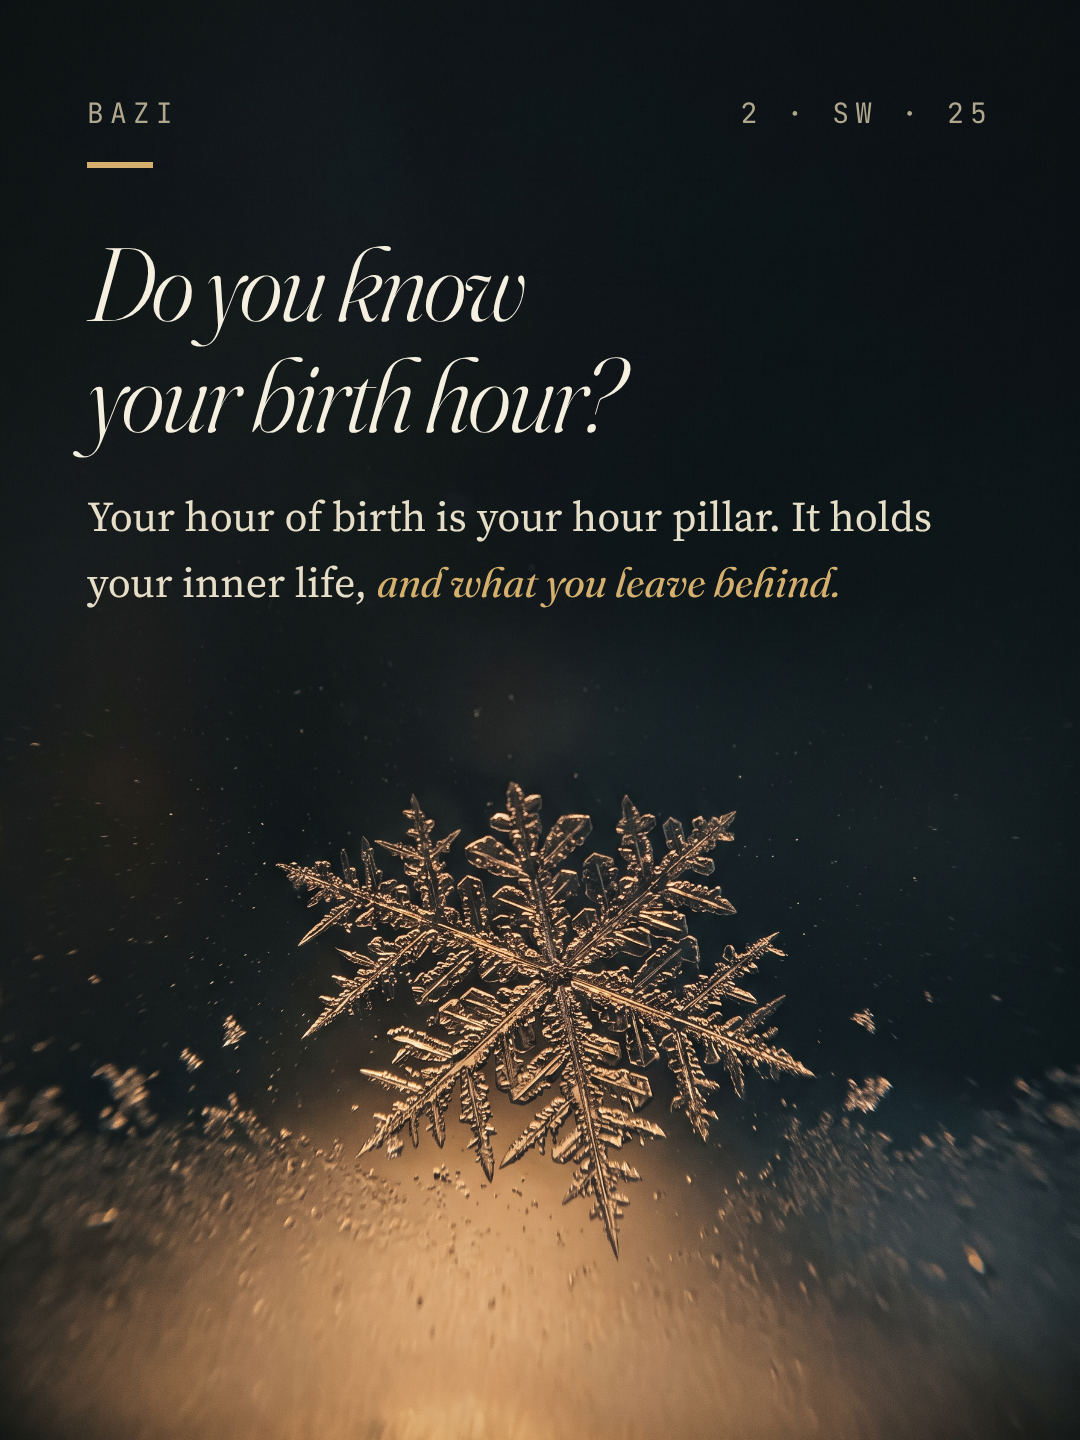
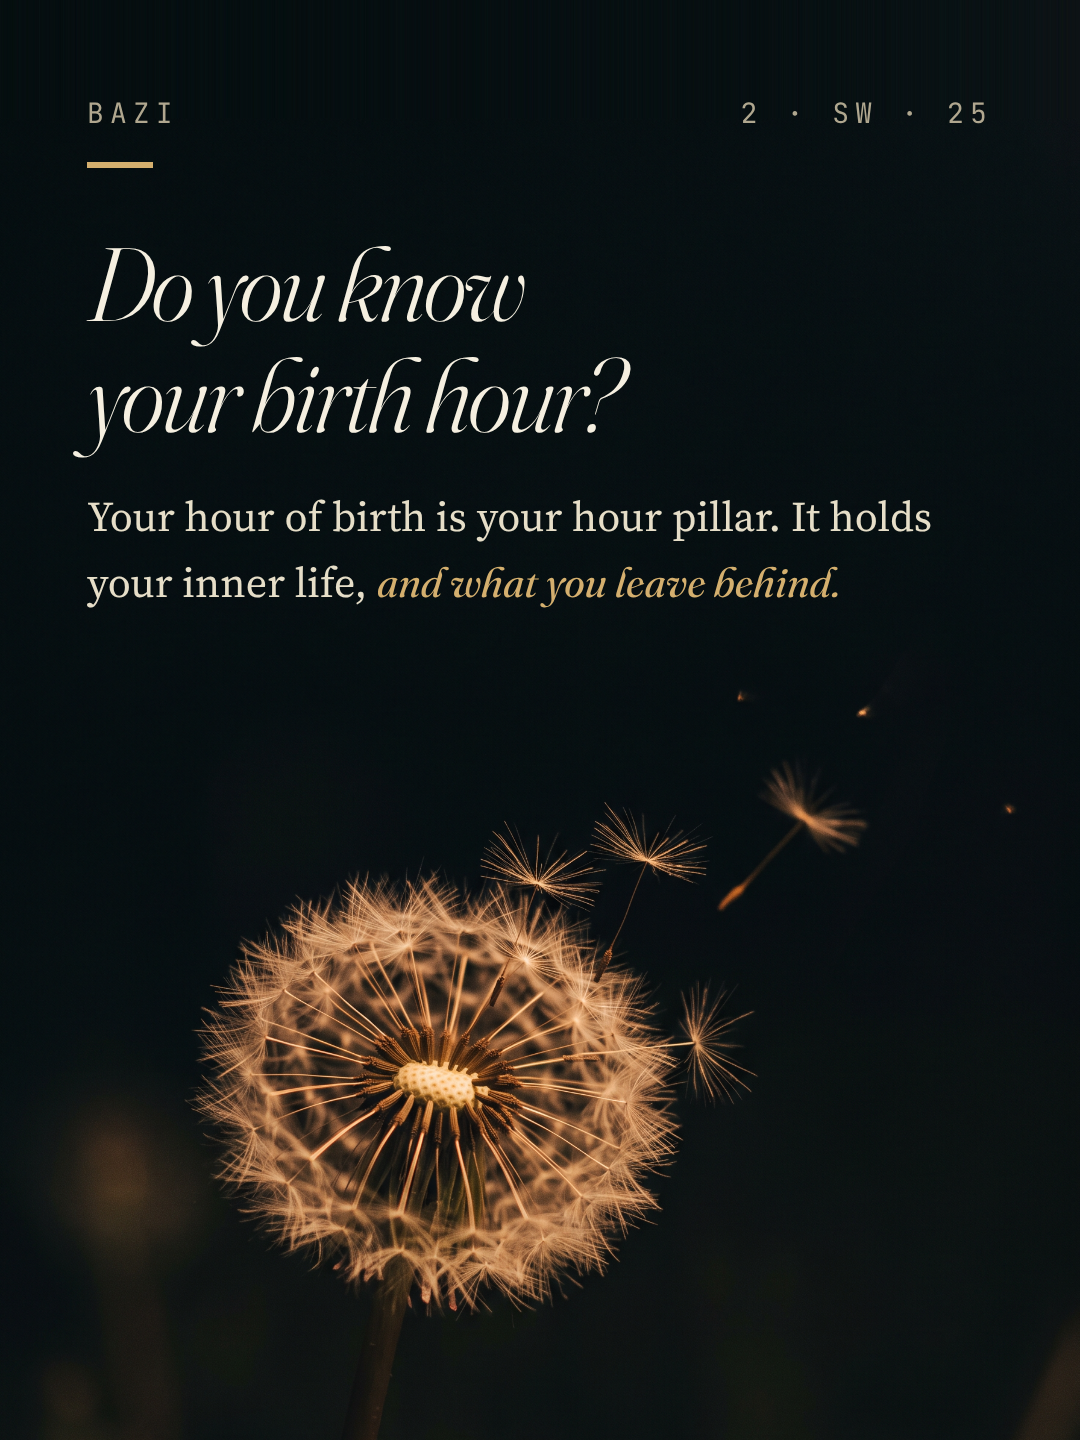
Grid 3: post 25 image changed to a dandelion at night (what you leave behind)
Claude-Session: https://claude.ai/code/session_015jTJxJgW7zrZMbAgWj2crG

diff --git a/engine3/grids/g3.py b/engine3/grids/g3.py
@@ -18,7 +18,8 @@ Revisions
   "Which realm do you ignore?" to "Three kinds of qi move your day." (people feel the three qi without knowing them).
 - Nov 23: post 25 rewritten from "Not your sun sign. Your own chart." to "Do you know your birth hour?" (Bǐng is The Sun in our own
   system, and the feed never talks other systems down). The hour pillar: inner life, how you see the world, how you
-  invest, legacy, children (Ryan's definition; see the depth reference glossary).
+  invest, legacy, children (Ryan's definition; see the depth reference glossary). Image changed from the frost crystal
+  (retired) to a dandelion at night: what you leave behind.
 - Nov 23: post 21 slides 2-5 built (SLIDES: one per realm in the app's words and colours, then the three circles). 
 - Nov 23: post 26 slides 2-5 built (SLIDES26: what a Day Master is, the Yang five, the Yin five, which are you).
 """
@@ -29,7 +30,7 @@ WORK = _os.environ.get('OURKAI_WORK', '/home/claude/work')
 BACKGROUNDS = {
     'match':          '6595c52e-6cfc-465a-9c59-4c8b92e4452e',  # 24 · a match the instant it catches
     'moongate':       'aedc6398-e3b1-4cce-ac60-a4a40731a2aa',  # 19 · moon gate in pale plaster framing a dawn sky
-    'crystal':        '8c121ae7-0889-4eb7-9c9d-3963803fd983',  # 25 · one frost crystal on dark glass, lit gold
+    'dandelion':      'da73d831-a859-4ea1-b42d-fae9cfcb419c',  # 25 · dandelion at night, seeds lifting away, gold side light (shifted down 200 px, top row extended, so no seed touches the text)
     'teatable':       '08058c9b-6569-4d24-8cc9-8900b5f8c4f7',  # 20 · low tea table, three cushions, morning sun
     'thumbprint':     'b2e6a72c-83b1-4f59-9ed0-3d55963bf55d',  # 23 · one thumbprint pressed into dark clay, warm side light
     'paper':          '2ce98312-8a6f-42ea-9cdc-dc6ae3824c10',  # shared paper (21, 22)
@@ -44,7 +45,7 @@ TILES = [  # profile order, approved
     dict(post=19, slug='heaven-earth-you', template='horizon', bg='moongate', dark=False, kicker='The three realms', palace='9 · S · 19',
          head='Heaven, Earth, and you.',
          body=f'{ZH.format("天")} Cosmic, {ZH.format("地")} Earth, {ZH.format("人")} Self:', accent='the three realms.'),
-    dict(post=25, slug='your-birth-hour', template='sky', bg='crystal', dark=True, kicker='BaZi', palace='2 · SW · 25',
+    dict(post=25, slug='your-birth-hour', template='sky', bg='dandelion', dark=True, kicker='BaZi', palace='2 · SW · 25',
          head='Do you know<br>your birth hour?', body='Your hour of birth is your hour pillar. It holds your inner life,', accent='and what you leave behind.'),
     dict(post=20, slug='right-time-place-people', template='sky', bg='teatable', dark=False, kicker='The three realms', palace='3 · E · 20',
          head='Right time. Right place. Right people.', body='An old Chinese saying,', accent='and a map of a good decision.'),
